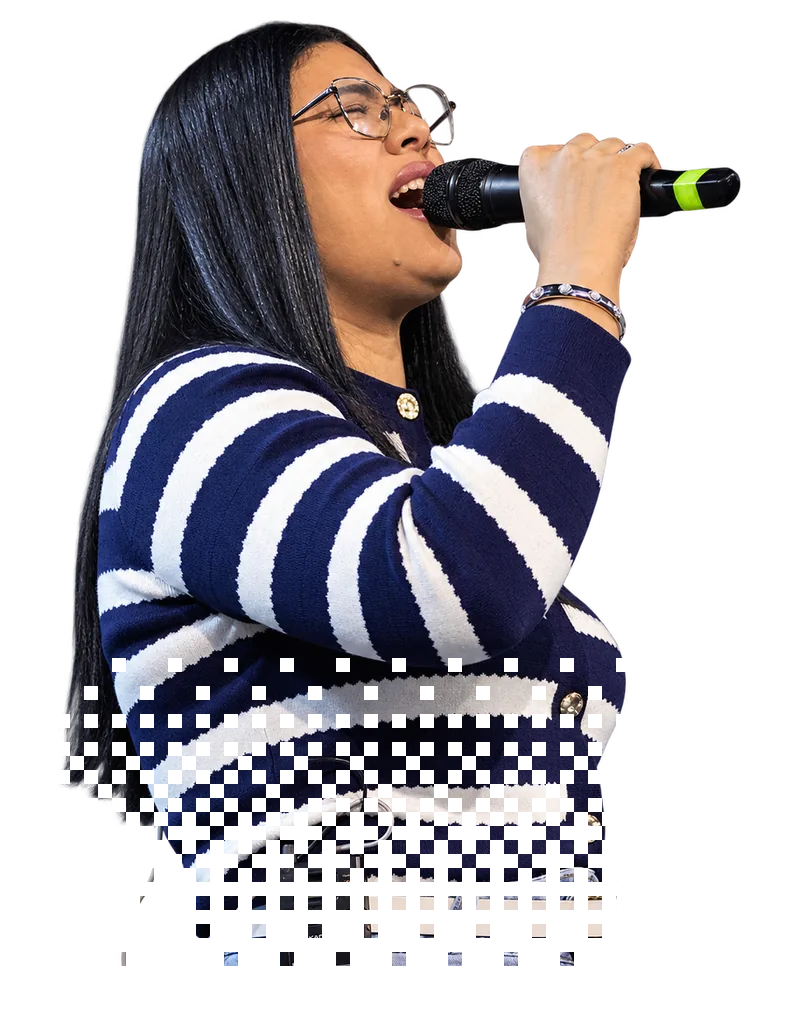
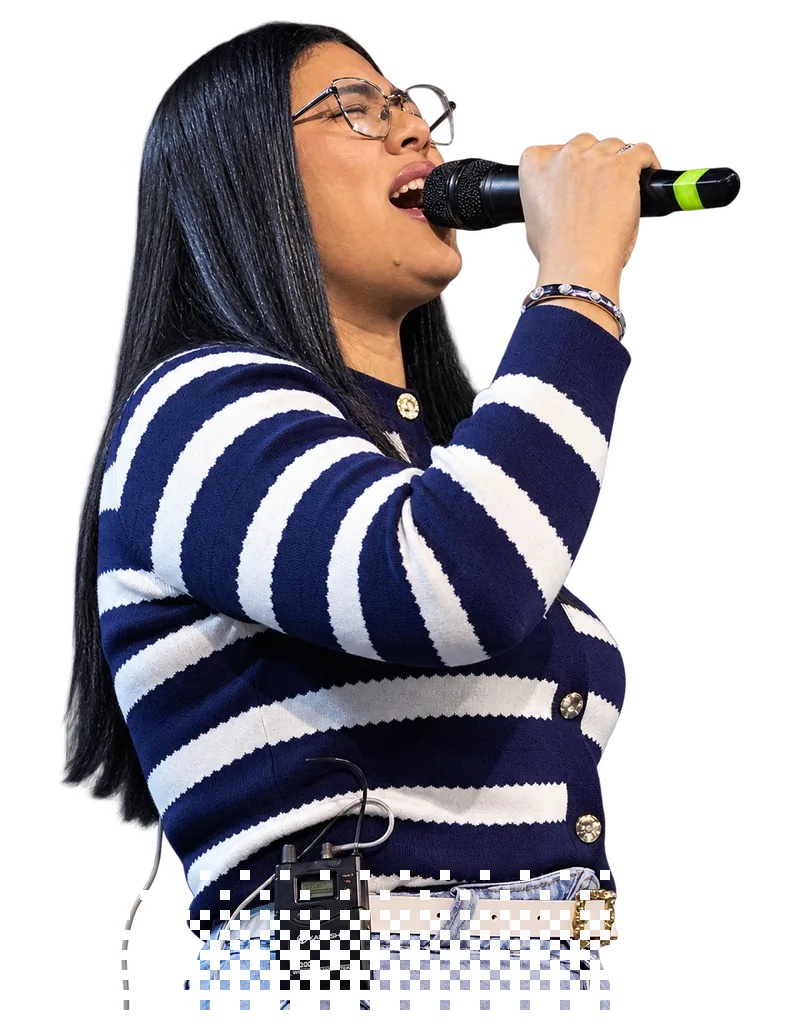
Line-up: card cabe na tela do notebook e pixelado so numa faixa fina
- Largura do card limitada pela altura da tela (max 400 px): os dois
  cabem inteiros no notebook, com a cabeca saindo do topo.
- Dissolucao das fotos reduzida a uma faixa curta na base, blocos menores.

diff --git a/index.html b/index.html
@@ -366,7 +366,7 @@
                     <li class="lineup-item">
                         <button class="lineup-card" type="button" data-bio="bio-1" data-nome="Pra. Débora Cordeiro" aria-label="Ver biografia: Pra. Débora Cordeiro">
                             <span class="lineup-palco" aria-hidden="true"></span>
-                            <span class="lineup-foto midia" data-rotulo="foto" style="--proporcao: 800 / 1125"><picture><source type="image/webp" srcset="assets/imagens/lineup/1-480.webp?v=4 480w, assets/imagens/lineup/1-800.webp?v=4 800w" sizes="(min-width: 1024px) 380px, 50vw"><img src="assets/imagens/lineup/1-480.png?v=4" alt="" width="480" height="675" loading="lazy"></picture></span>
+                            <span class="lineup-foto midia" data-rotulo="foto" style="--proporcao: 800 / 1125"><picture><source type="image/webp" srcset="assets/imagens/lineup/1-480.webp?v=5 480w, assets/imagens/lineup/1-800.webp?v=5 800w" sizes="(min-width: 1024px) 380px, 50vw"><img src="assets/imagens/lineup/1-480.png?v=5" alt="" width="480" height="675" loading="lazy"></picture></span>
                             <span class="lineup-veu" aria-hidden="true"></span>
                             <span class="lineup-nome" aria-hidden="true">
                                 <span class="lineup-nome-1">Débora</span>
@@ -381,7 +381,7 @@
                     <li class="lineup-item">
                         <button class="lineup-card" type="button" data-bio="bio-2" data-nome="Salmista Diorgenis Martinez" aria-label="Ver biografia: Salmista Diorgenis Martinez">
                             <span class="lineup-palco" aria-hidden="true"></span>
-                            <span class="lineup-foto midia" data-rotulo="foto" style="--proporcao: 800 / 1025"><picture><source type="image/webp" srcset="assets/imagens/lineup/2-480.webp?v=4 480w, assets/imagens/lineup/2-800.webp?v=4 800w" sizes="(min-width: 1024px) 380px, 50vw"><img src="assets/imagens/lineup/2-480.png?v=4" alt="" width="480" height="615" loading="lazy"></picture></span>
+                            <span class="lineup-foto midia" data-rotulo="foto" style="--proporcao: 800 / 1025"><picture><source type="image/webp" srcset="assets/imagens/lineup/2-480.webp?v=5 480w, assets/imagens/lineup/2-800.webp?v=5 800w" sizes="(min-width: 1024px) 380px, 50vw"><img src="assets/imagens/lineup/2-480.png?v=5" alt="" width="480" height="615" loading="lazy"></picture></span>
                             <span class="lineup-veu" aria-hidden="true"></span>
                             <span class="lineup-nome" aria-hidden="true">
                                 <span class="lineup-nome-1">Diorgenis</span>

diff --git a/style.css b/style.css
@@ -1786,8 +1786,12 @@ html.entrada-ativa .entrada.is-dissolvendo {
 .lineup-trilho {
     list-style: none;
     display: grid;
-    grid-template-columns: repeat(2, minmax(0, 1fr));
-    gap: clamp(20px, 7vw, 120px);
+    /* cada card tem no máximo 400 px e nunca passa da altura da tela
+       (2:3 + a cabeça que sai do topo): no notebook os dois cabem inteiros */
+    --card-max: min(400px, calc((100svh - 250px) * 2 / 3));
+    grid-template-columns: repeat(2, minmax(0, var(--card-max)));
+    justify-content: center;
+    gap: clamp(20px, 6vw, 96px);
     max-width: 920px;
     margin-inline: auto;
     /* folga no topo para a cabeça (e a mão da Débora) que saem do card */
